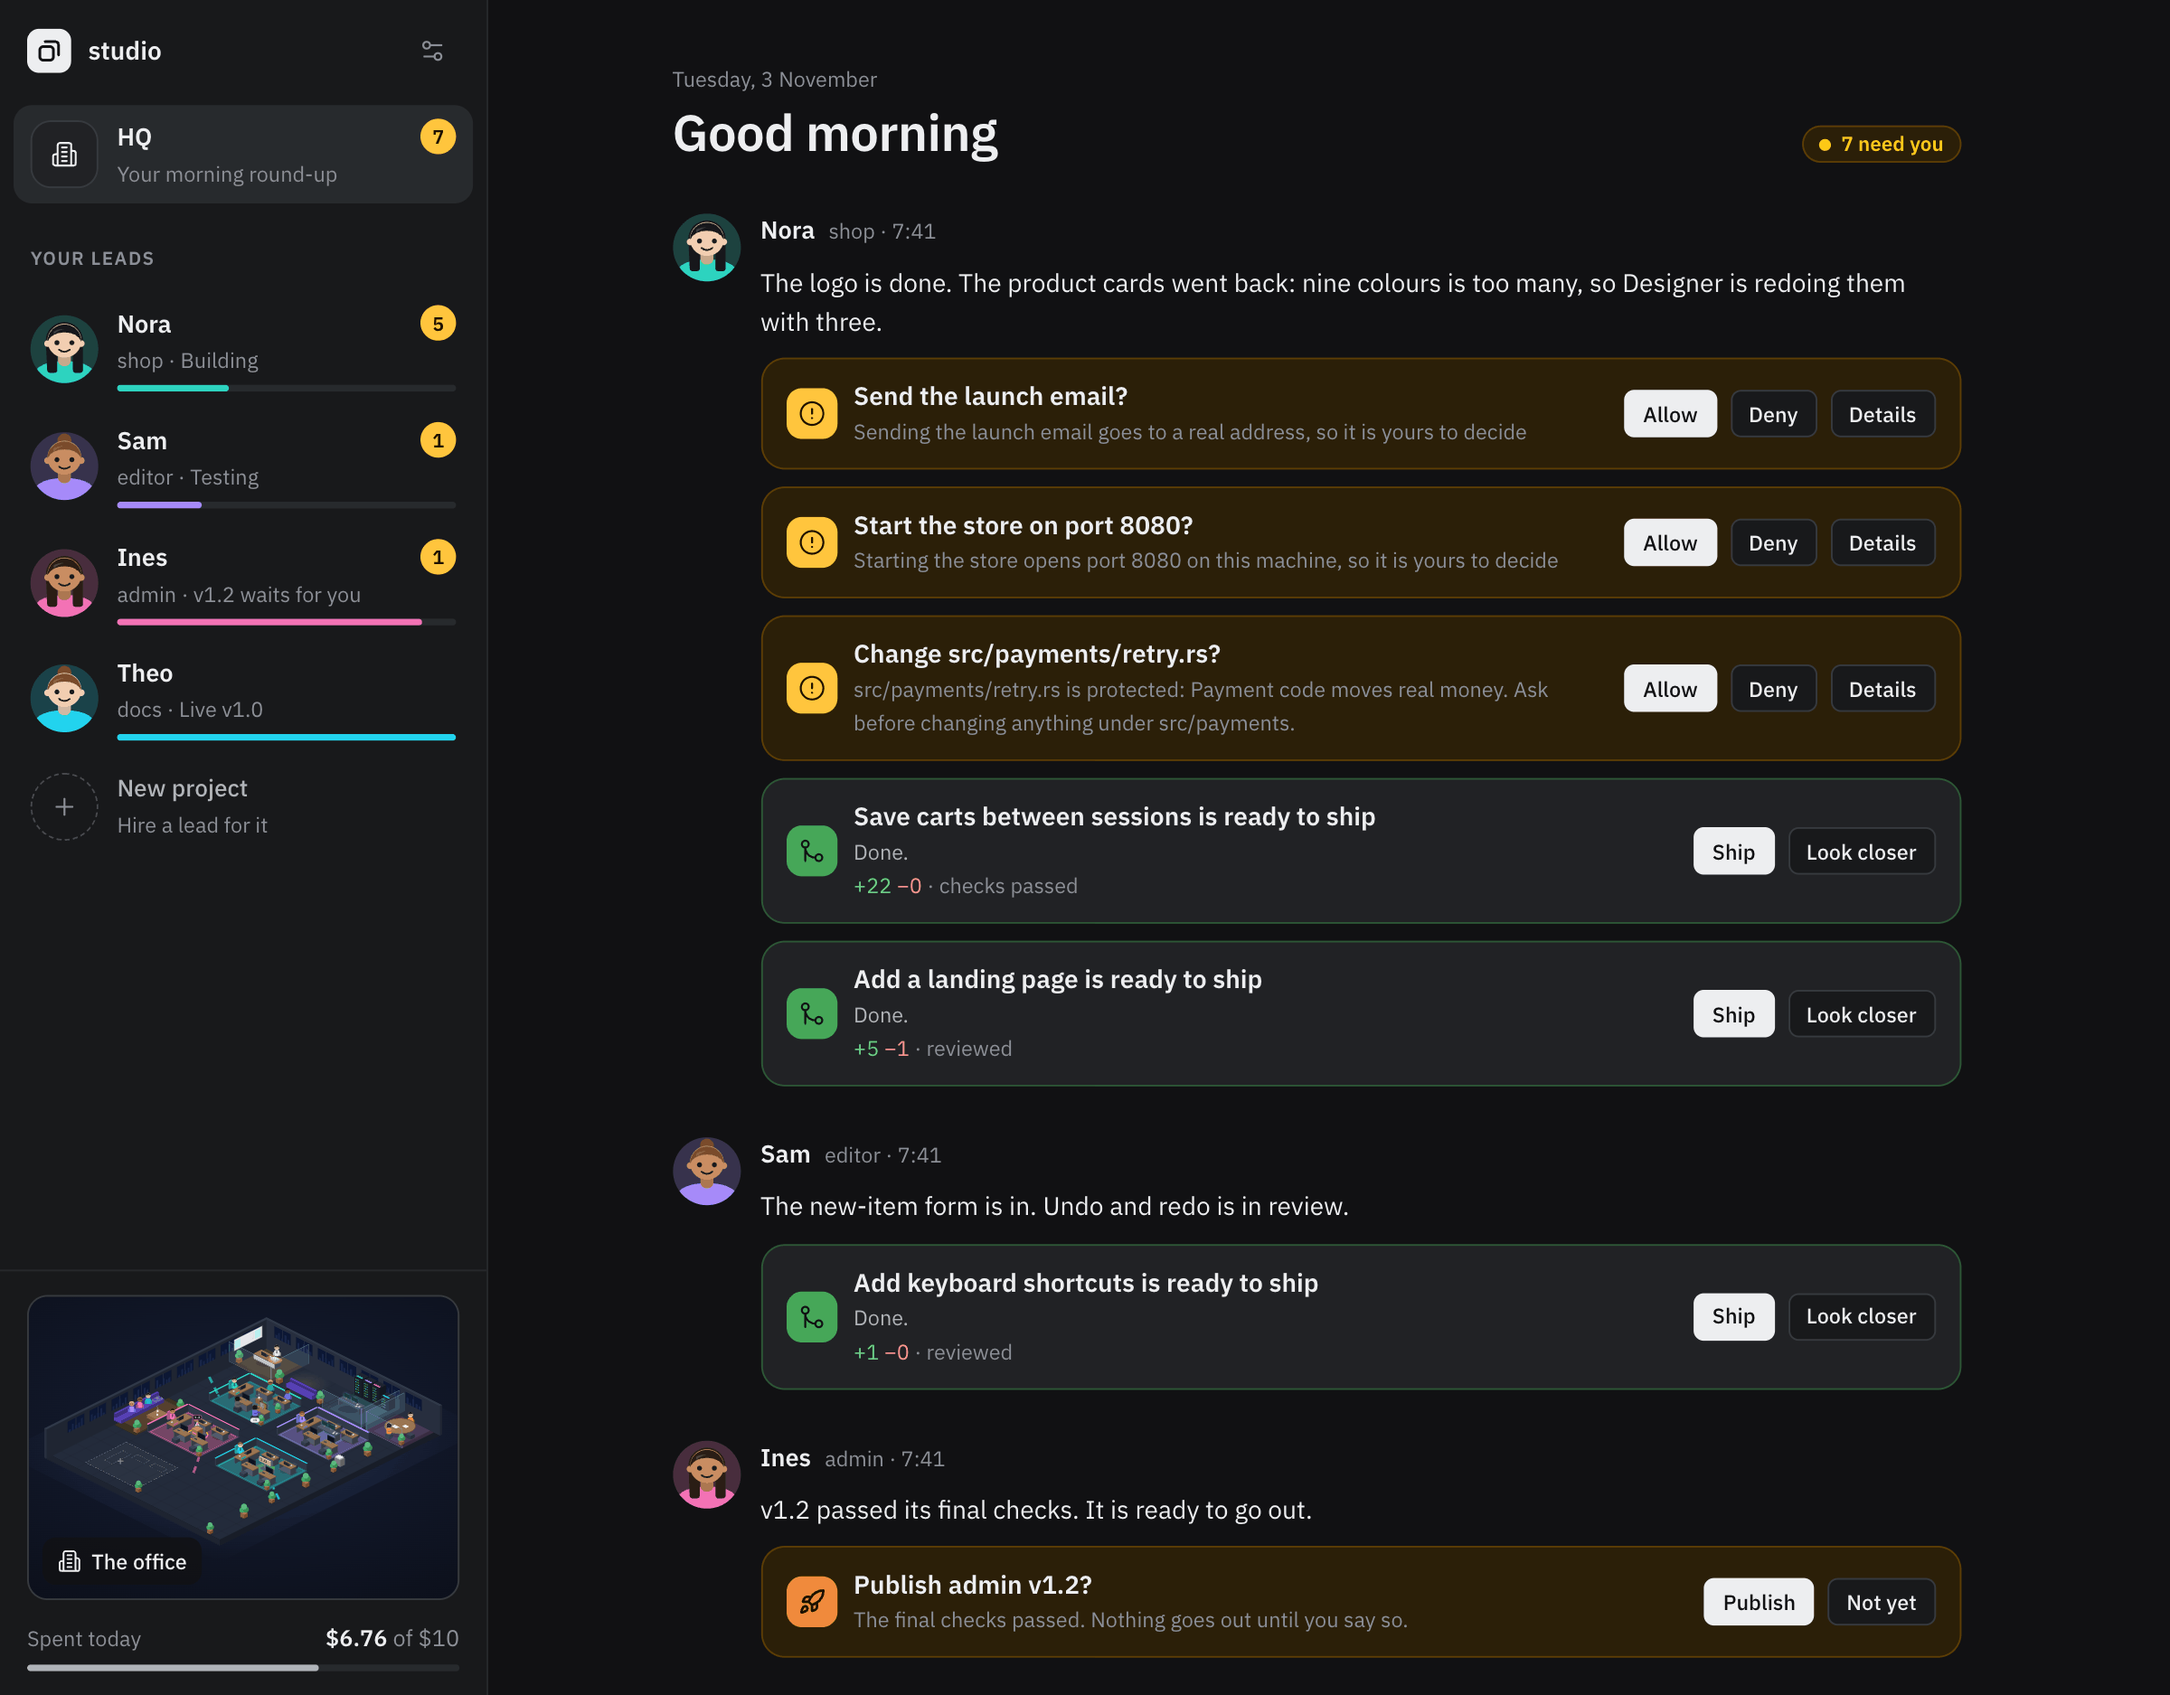
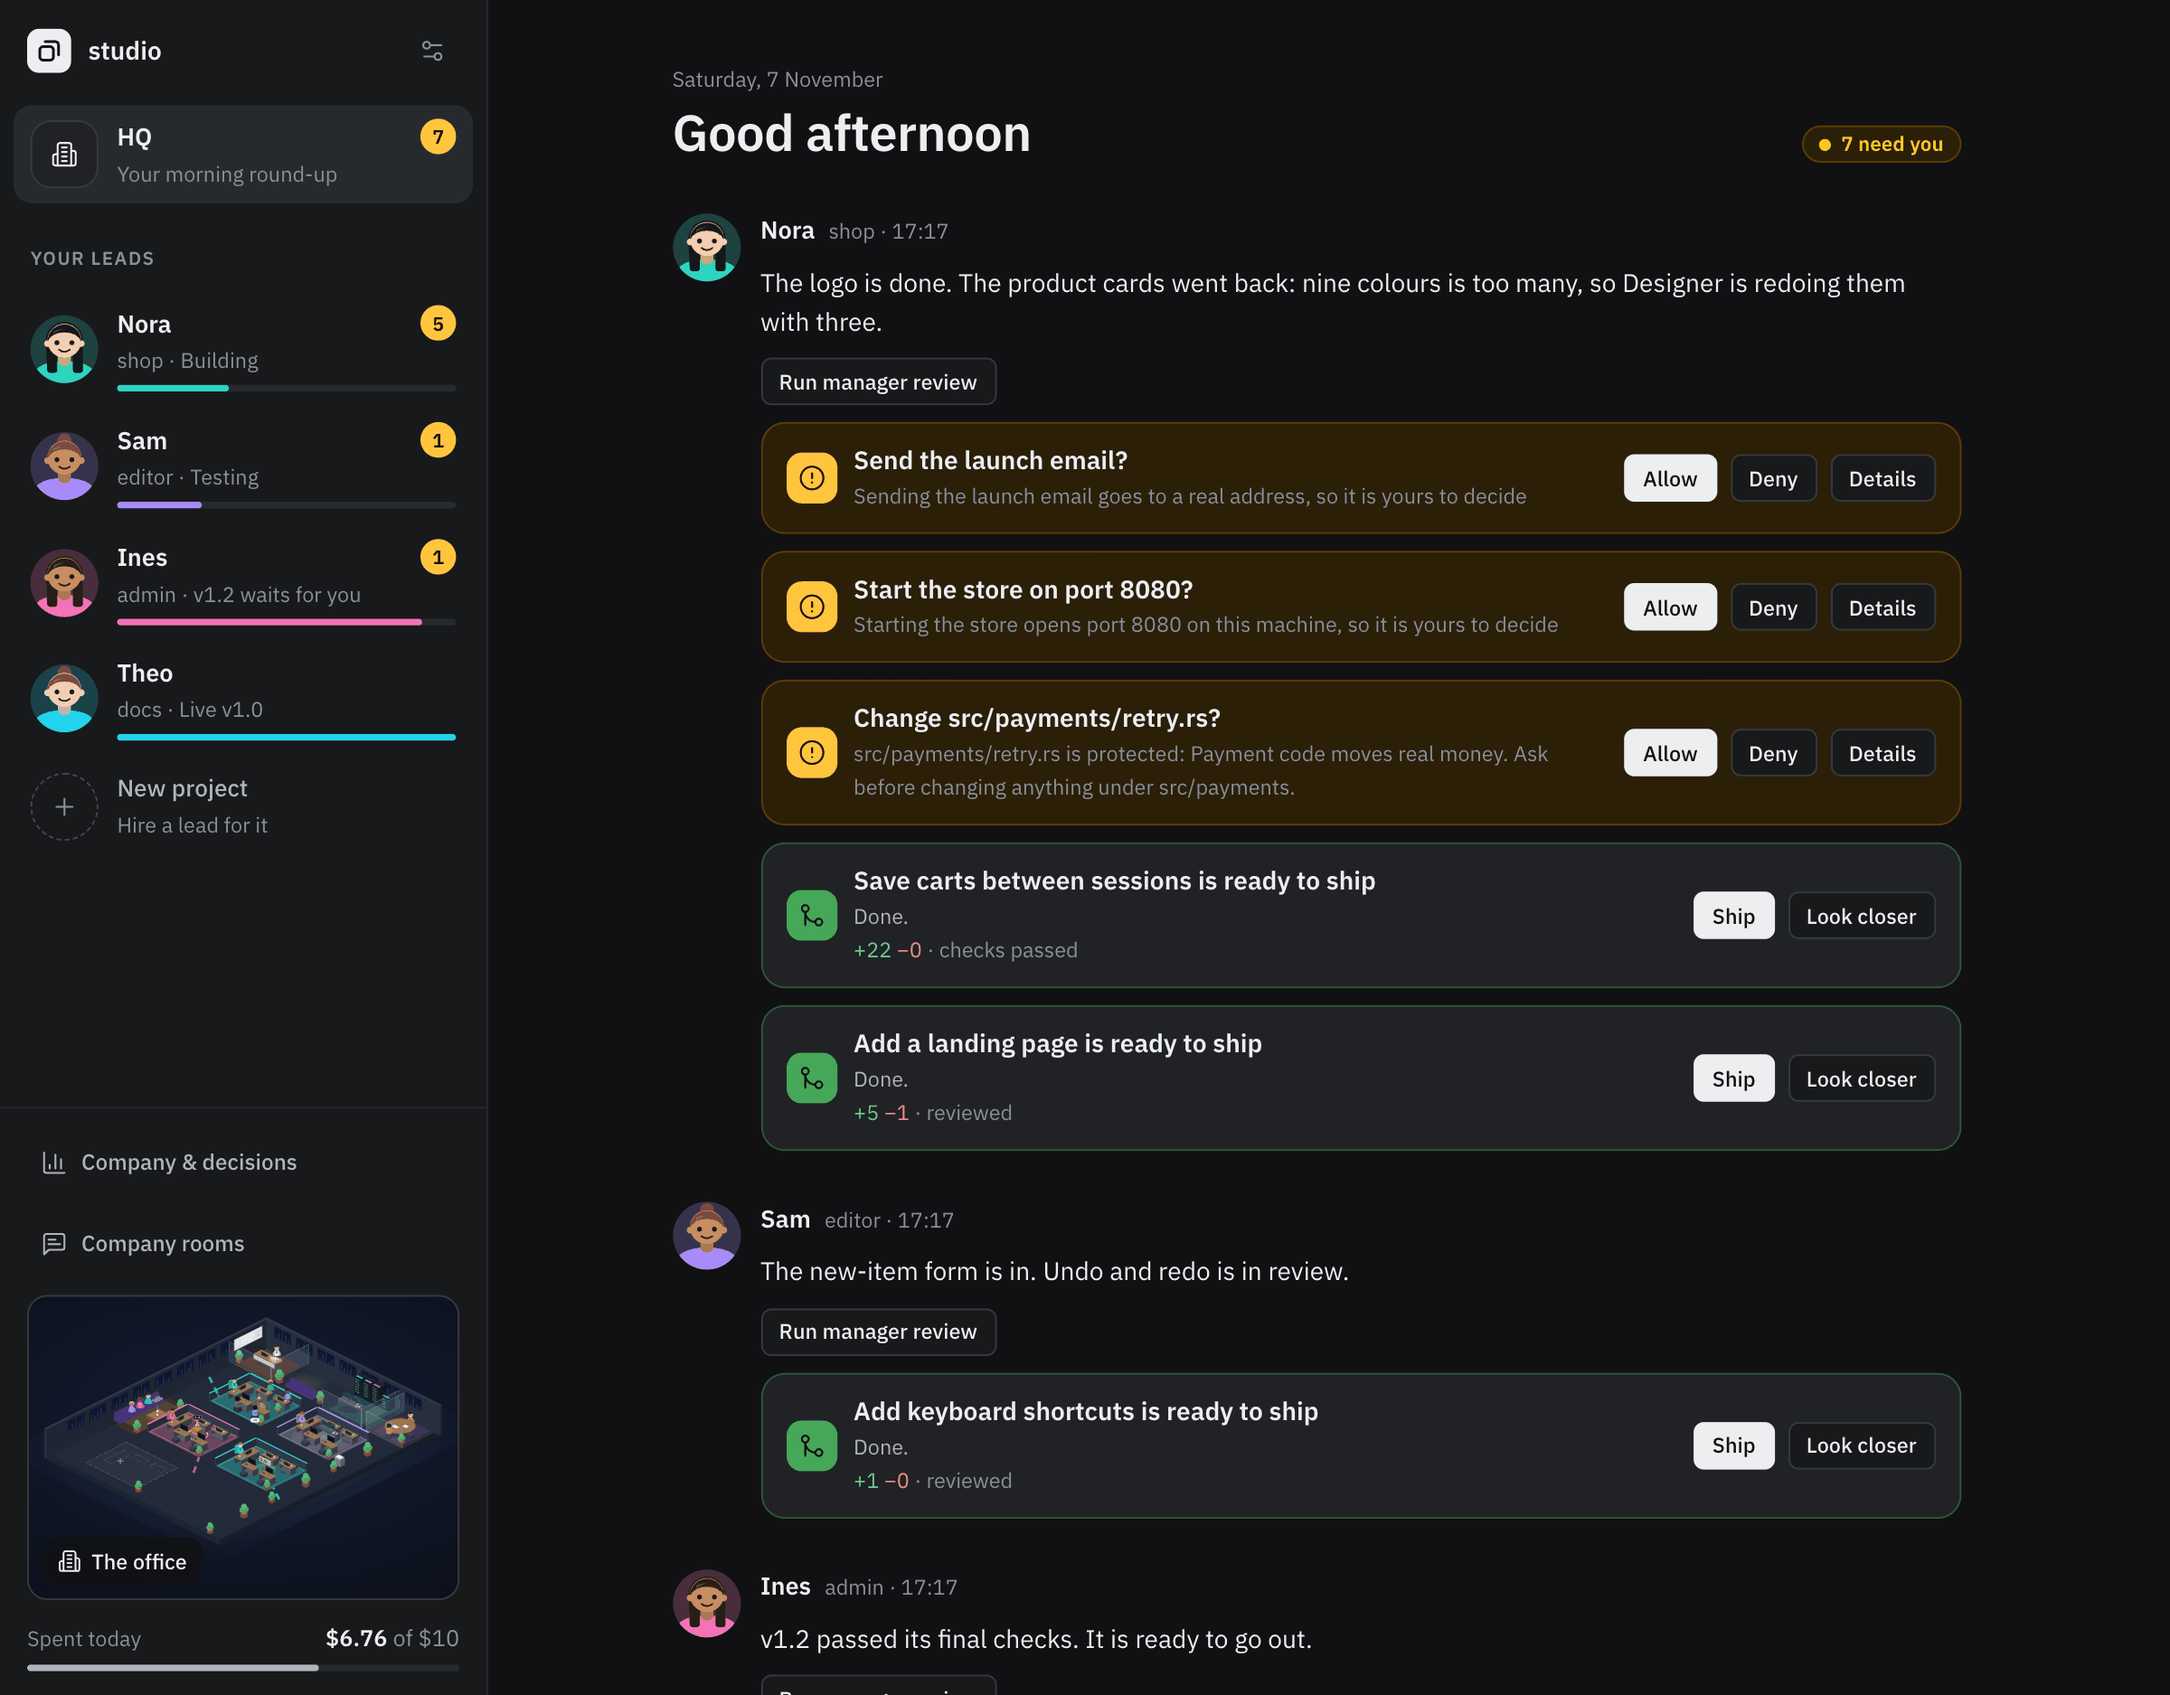
Retake the README photos for the new HQ

diff --git a/README.md b/README.md
@@ -25,13 +25,13 @@ you to ship. Nothing is pushed, and agents never see your credentials.
 > on a repo you have backed up, keep its budget low, set a spending limit in
 > your Claude account too, and read what it ships before you do.
 
-<p align="center"><img src="docs/office.png" alt="HQ, the morning round-up: a sidebar with a lead for each project, and a standup from each lead with the questions to answer and the finished work to ship" width="900"></p>
+<p align="center"><img src="docs/office.png" alt="HQ, the morning round-up: a sidebar with a lead for each project and links to the company page and rooms, and a standup from each lead with a Run manager review button, the approvals to answer and the finished work to ship" width="900"></p>
 
 ## Talk to your leads
 
 The web UI is a team sidebar and a page for each thing you do.
 
-<p align="center"><img src="docs/talk.png" alt="A conversation with Nora, the lead of the shop project: she answers a request to plan the checkout flow with a card of four tasks, and a note to Dev shows as a card. Beside the thread a rail shows who is at work, the milestone and what the project spent today" width="900"></p>
+<p align="center"><img src="docs/talk.png" alt="A conversation with Nora, the lead of the shop project: she answers a request to plan the checkout flow with a card of four tasks, and an approval card asks whether Dev may change a protected file. Beside the thread a rail shows who is at work, the milestone and what the project spent today" width="900"></p>
 
 - **HQ** is your morning round-up and approval inbox. Each lead has a line, its
   standup in a sentence or two, and under it the cards that wait for you: a
@@ -67,9 +67,11 @@ The web UI is a team sidebar and a page for each thing you do.
 - **The office** is the company floor. Pick a sign for its lead, or a person or
   their task for that employee's own card and conversation. **Studio** has the
   money limits, desks, hires, rules, office pause, manager autonomy controls,
-  and a simulation/live switch. Simulation gives new conversations and reviews
-  scripted replies with zero model cost. Automatic reviews are off by default;
-  cancellation, shipping and publishing always need you.
+  and a simulation/live switch. Simulation gives conversations, rooms,
+  standups, setup and reviews scripted replies at no model cost, while coding
+  work and approvals always use real models. Automatic reviews are off by
+  default. In Autonomous mode a lead may start at most 3 goals or tasks a day
+  per project on its own. Cancelling, shipping and publishing always need you.
 
 Adding a project is a conversation too: **New project** takes a folder and
 hires a lead for it. The lead reads the repository and shows how the project
